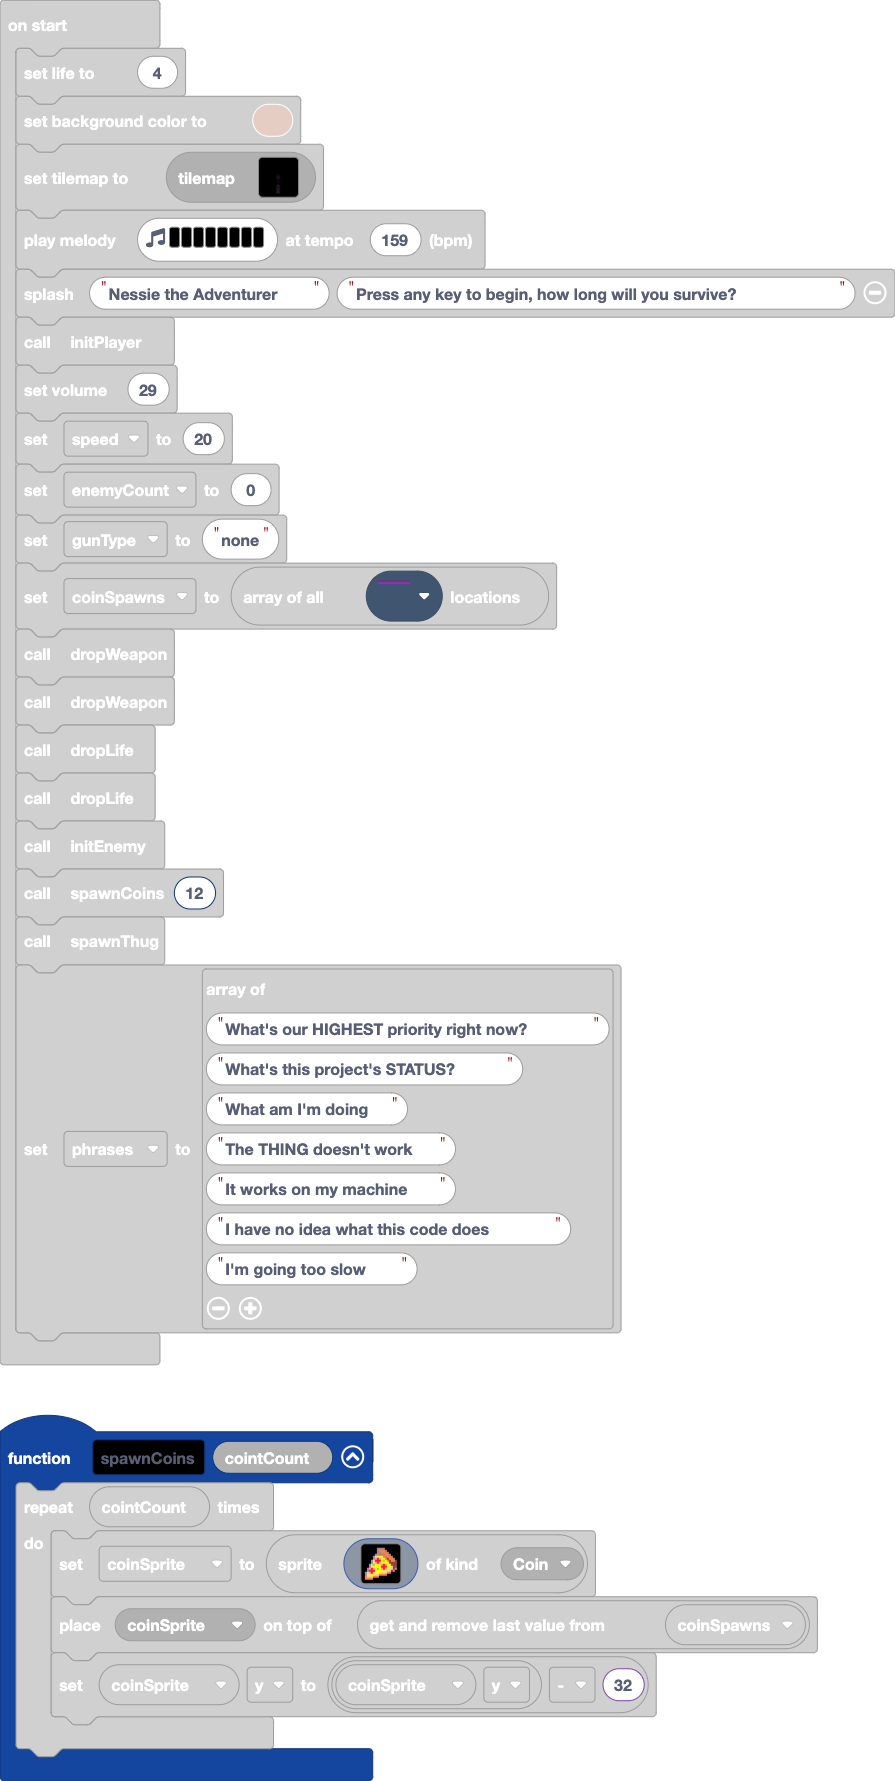
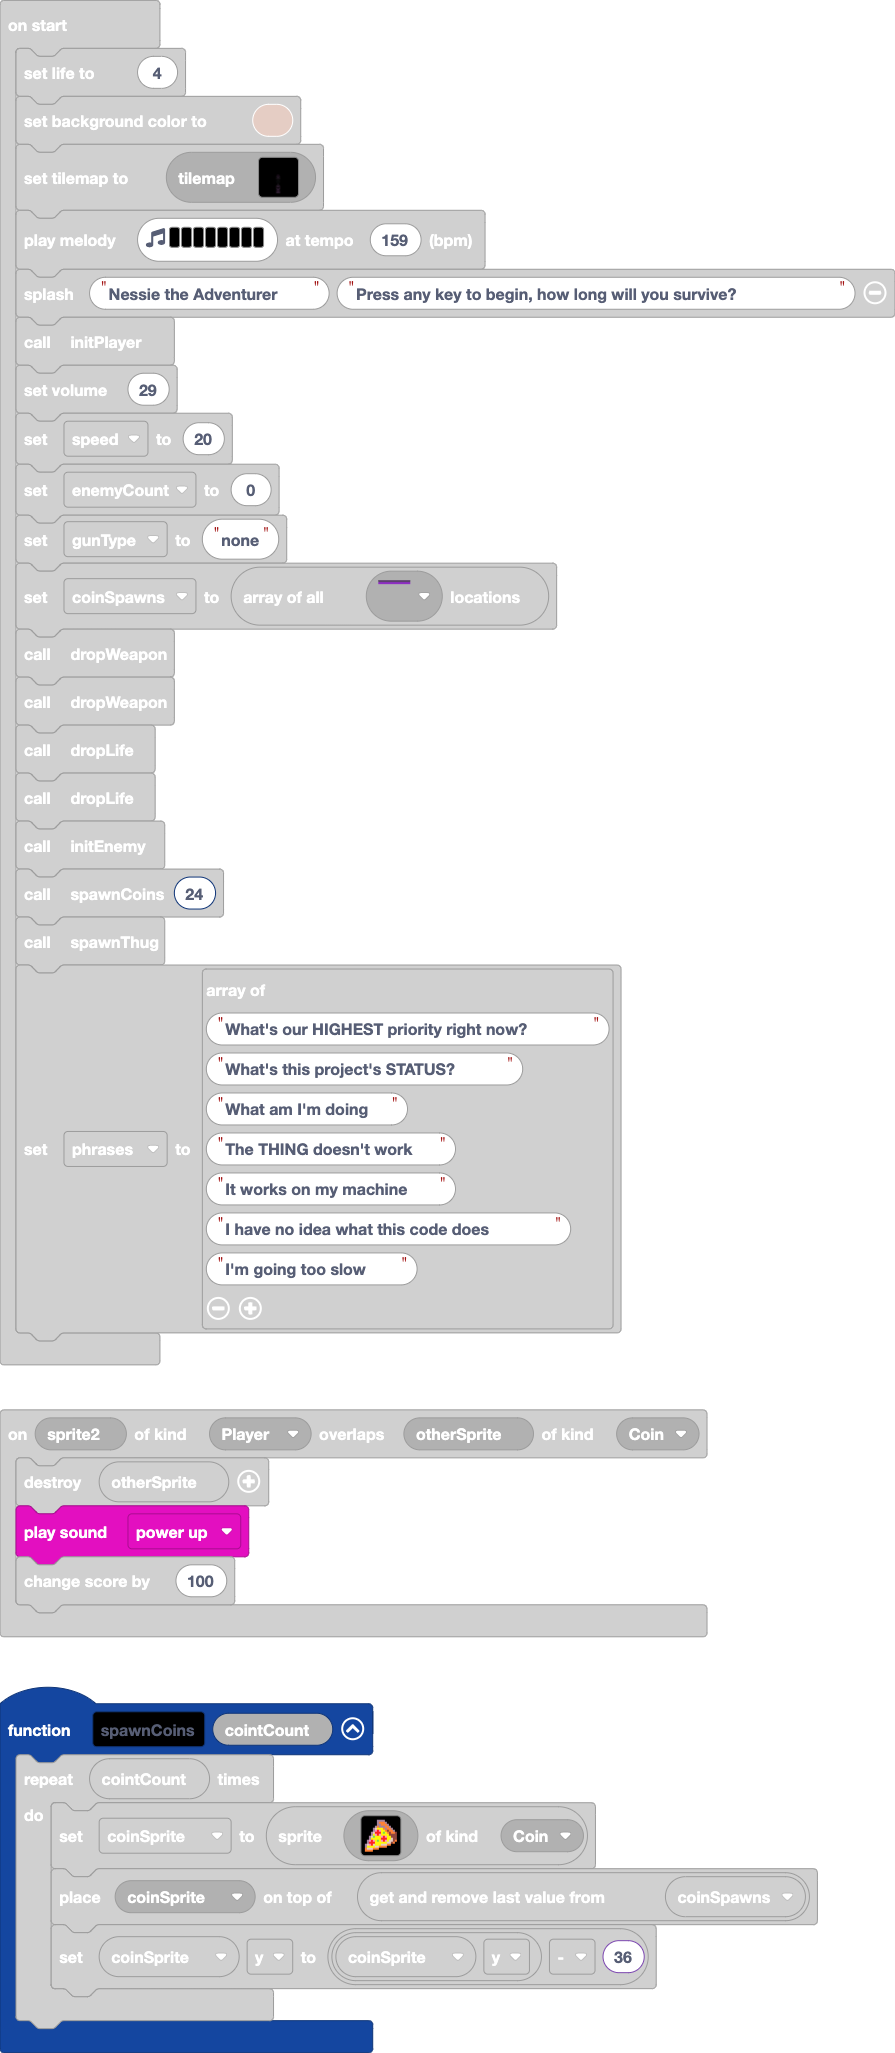
Update main.blocks, main.ts

Changed region(s): [[0.0, 0.0, 1.0, 0.9882]]

diff --git a/main.ts b/main.ts
@@ -4,7 +4,7 @@ namespace SpriteKind {
 }
 sprites.onOverlap(SpriteKind.Player, SpriteKind.Coin, function (sprite2, otherSprite) {
     otherSprite.destroy()
-    music.baDing.play()
+    music.powerUp.play()
     info.changeScoreBy(100)
 })
 scene.onOverlapTile(SpriteKind.Player, assets.tile`myTile0`, function (sprite, location) {
@@ -71,7 +71,7 @@ function spawnCoins (cointCount: number) {
             4 4 4 4 . . . . . . . . . . . . 
             `, SpriteKind.Coin)
         tiles.placeOnTile(coinSprite, coinSpawns.pop())
-        coinSprite.y = coinSprite.y - 32
+        coinSprite.y = coinSprite.y - 36
     }
 }
 controller.left.onEvent(ControllerButtonEvent.Pressed, function () {
@@ -161,7 +161,7 @@ dropWeapon()
 dropLife()
 dropLife()
 initEnemy()
-spawnCoins(12)
+spawnCoins(24)
 spawnThug()
 let phrases = [
 "What's our HIGHEST priority right now?",
